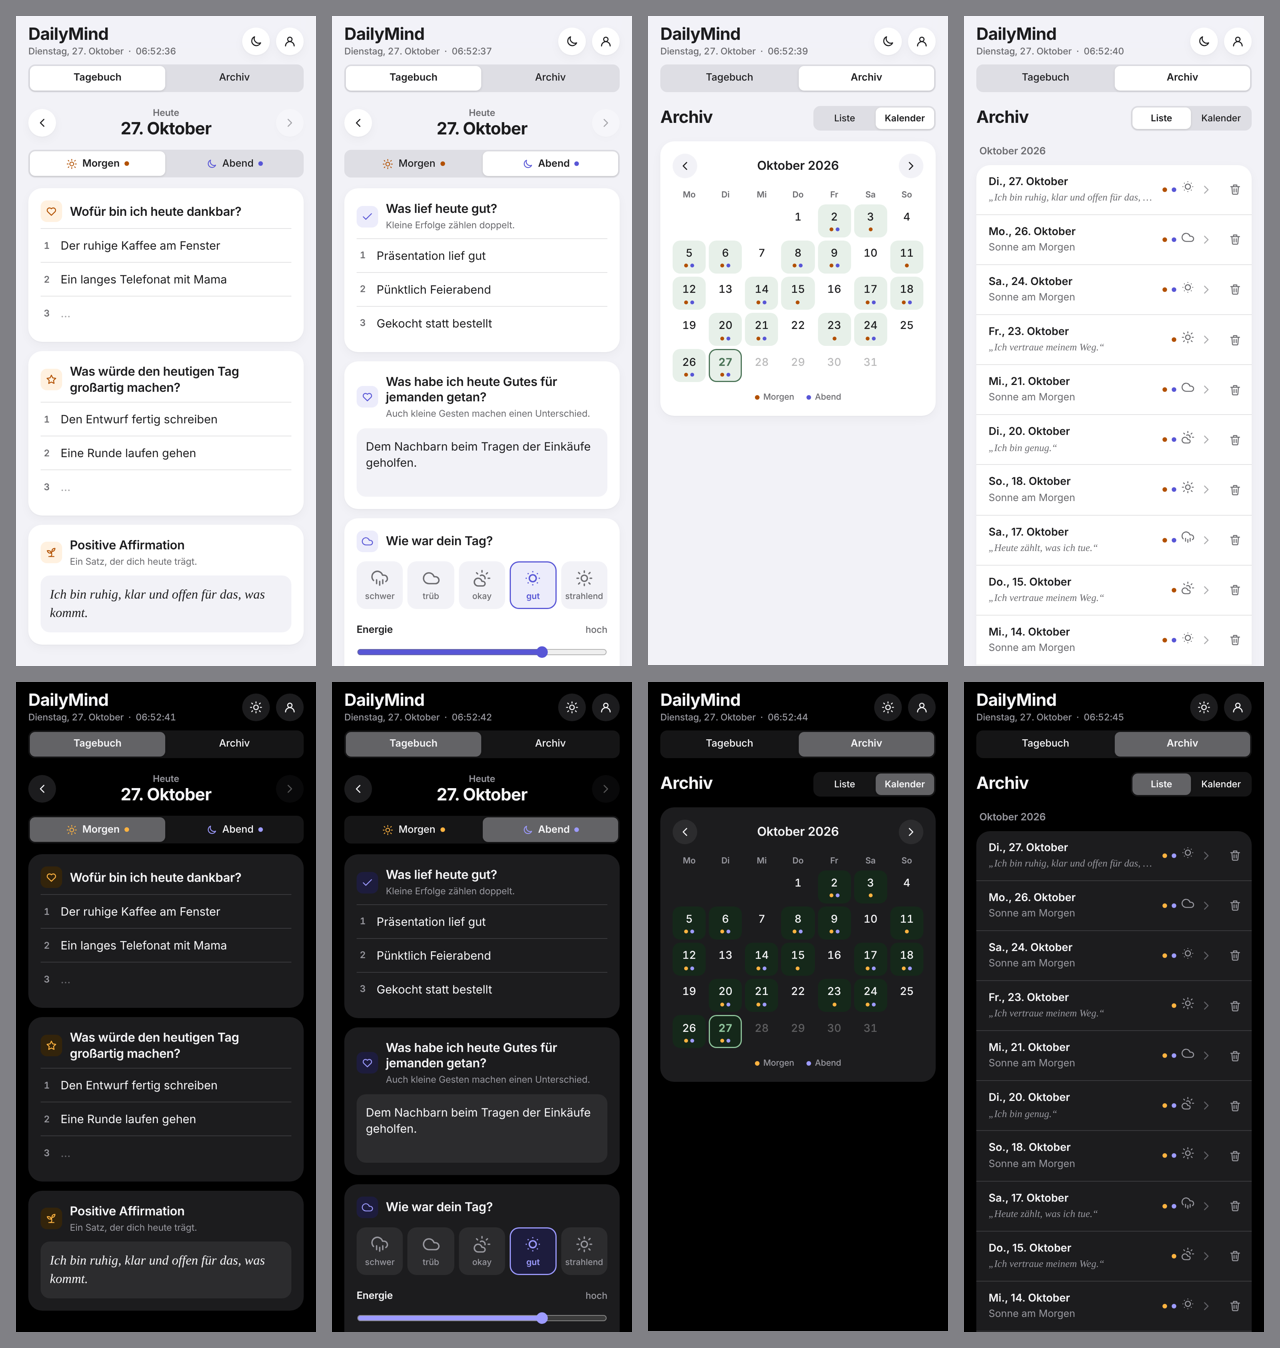
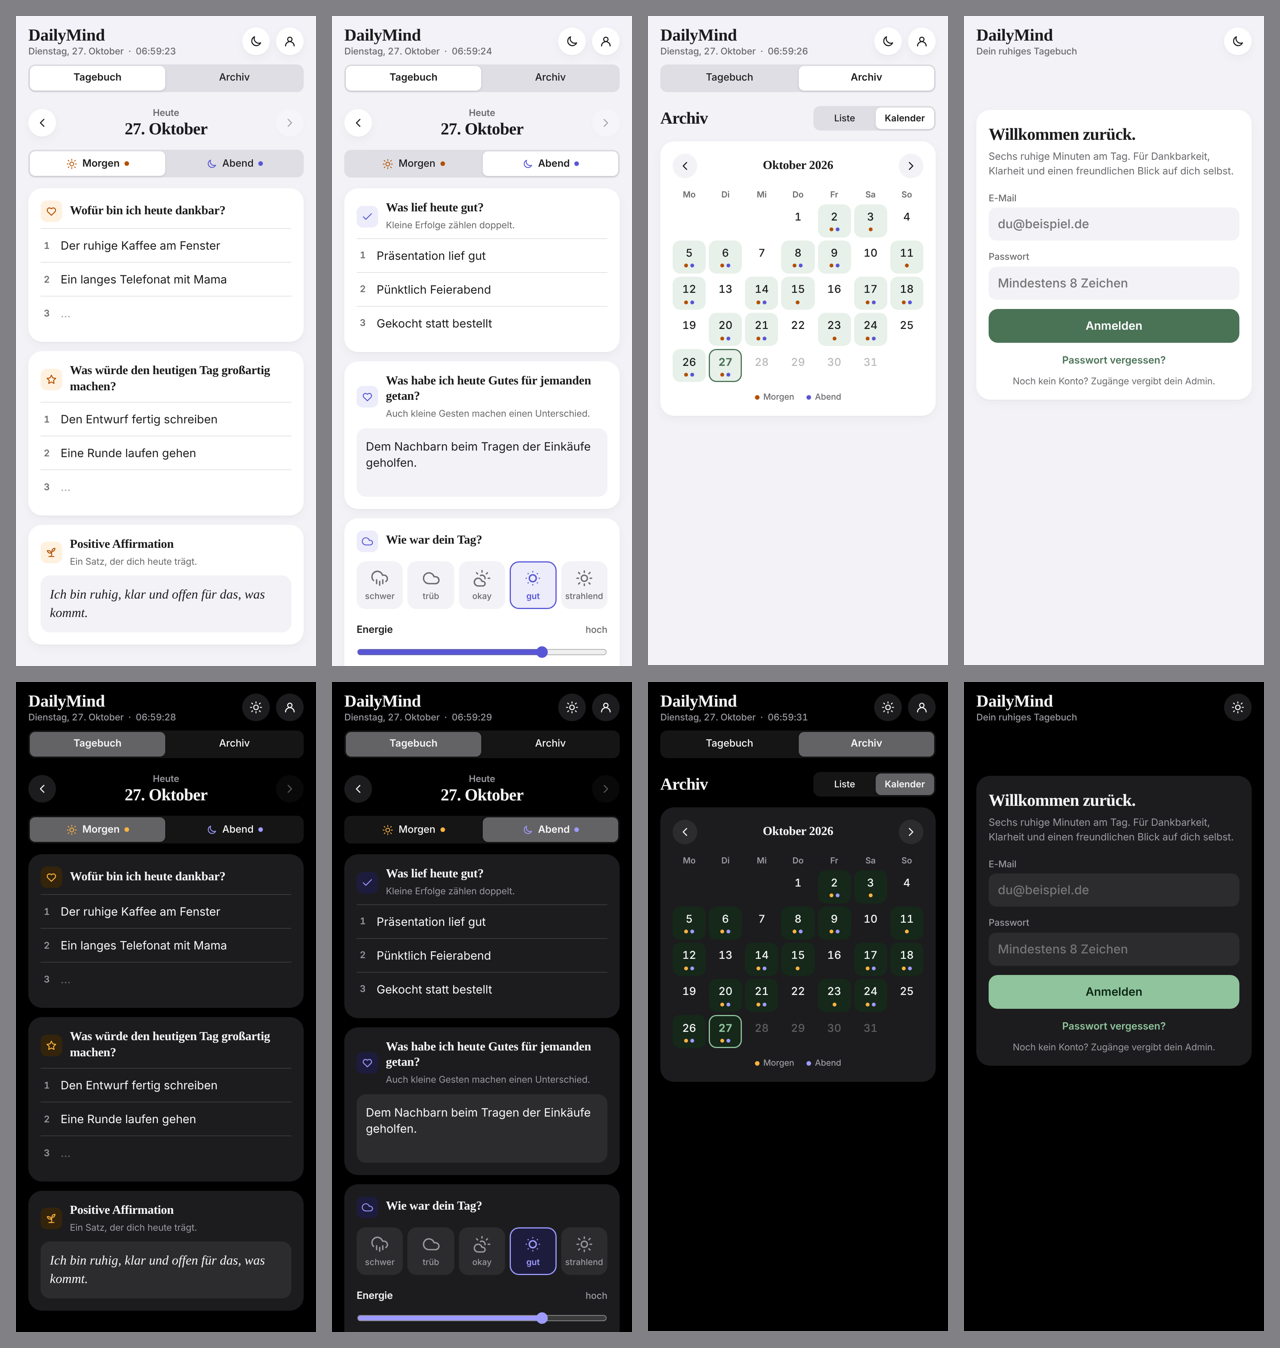
Überschriften in Apples Serifenschrift New York
- App-Name, Datum, Kartentitel, Kompliment, Monat und Anmeldung in ui-serif (New York), Fließtext bleibt SF
- Ohne New York (Windows, Android) greift Georgia bzw. die System-Serifenschrift
- Service-Worker-Cache v7, Screenshots aktualisiert

Claude-Session: https://claude.ai/code/session_01X1oX1sS7RzCoKZArtDn2gr

diff --git a/sw.js b/sw.js
@@ -3,7 +3,7 @@
    - Bibliotheken/Schriften: aus dem Speicher
    - Supabase-Anfragen werden NICHT gespeichert (Tagebucheinträge bleiben privat)
    - Push: zeigt die tägliche Erinnerung, ein Tipp darauf öffnet DailyMind */
-const P="dailymind-",V=P+"v6";
+const P="dailymind-",V=P+"v7";
 const CORE=['./','index.html','shared/ios-nav.js','sprueche.js','push.js','manifest.json','icon.svg','apple-touch-icon.png','icons/icon-192.png','icons/icon-512.png','icons/icon-maskable-512.png','icons/favicon-32.png'];
 const EXTRA=["https://cdn.jsdelivr.net/npm/@supabase/supabase-js@2.45.4/dist/umd/supabase.min.js","https://cdn.jsdelivr.net/npm/alpinejs@3.14.1/dist/cdn.min.js"];
 const CDN=/cdn\.jsdelivr\.net/;

diff --git a/index.html b/index.html
@@ -137,6 +137,9 @@
     .area:focus-within, .row:focus-within .n { color: var(--p1); }
     .area:focus-within { box-shadow: inset 0 0 0 1.5px var(--p1); }
     .affirm { font-family: var(--serif); font-style: italic; font-size: 17px; }
+    /* Überschriften in Apples Serifenschrift New York (auf Apple-Geräten über ui-serif), Fließtext bleibt SF.
+       Ohne New York greift Georgia bzw. die Serifenschrift des Systems. */
+    h1, .day h2, .arch-head h2, .gate h2, .card h3, .praise b, .cal-head b { font-family: var(--serif); letter-spacing: -.01em; }
 
     /* Stimmung und Energie */
     .moods { display: grid; grid-template-columns: repeat(5, 1fr); gap: 6px; margin-top: 12px; }

diff --git a/README.md b/README.md
@@ -85,7 +85,8 @@ Ein Eintrag pro User und Tag (`unique (user_id, entry_date)`):
 ## Design
 
 Gleiche Designsprache wie das mvs2-Dashboard und „Zuhause“: Systemschrift, 12–22 px (Basis 14 px), weiße Karten auf
-`#f2f2f7`, im Dunkeln dunkelgraue Karten (`#1c1c1e`) auf Schwarz, Linien-Symbole statt Emojis. Die Farben stehen als
+`#f2f2f7`, im Dunkeln dunkelgraue Karten (`#1c1c1e`) auf Schwarz, Linien-Symbole statt Emojis. Überschriften und die Affirmation stehen in Apples Serifenschrift New York
+(`ui-serif`, sonst Georgia), der übrige Text in der Systemschrift. Die Farben stehen als
 CSS-Variablen oben in `index.html` (`--bg`, `--card`, `--well`, `--ink`, `--mute`, `--p1` …).
 
 - Akzent: Salbeigrün `#4a7356` (dunkel `#8fc49c`)
